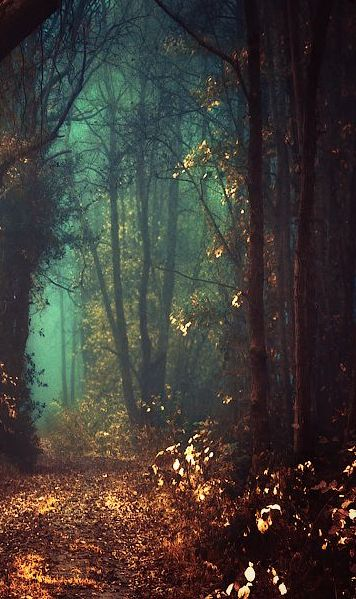
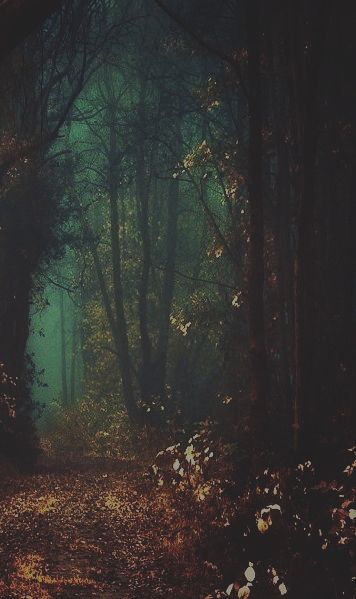
colour correction
i colour corrected the images so it dosent clash against the writing

diff --git a/index.html b/index.html
@@ -127,7 +127,7 @@
 
         <section id="downloads-section">
             <div id="downloads-description">
-                <h2>Download game here</h2>
+                <h2 class="colouredText">Download game here</h2>
                   <div class="border"></div>
             </div>
             <div id="downloads">
@@ -136,8 +136,8 @@
                       <img src="GroupLandingPage/logo.png" alt="Logo of takeover game">
                     </div>
                     <div class="download-description">
-                        <p>Download link coming soon</p>
-                        <p>Be Ready!</p>
+                        <p class="colouredText">Download link coming soon</p>
+                        <p class="colouredText">Be Ready!</p>
                         <a href="#about"><input type="button" id="download-button" value="PREPARING..."></a>
                     </div>
                 </div>
